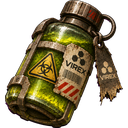
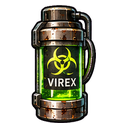
Fotos nuevas de todos los objetos y menús del juego con el arte nuevo: mochila con casilleros dibujados, tienda, pausa, carga, CAÍSTE y libretas de Pablo y Sofía con retrato del MVP
Claude-Session: https://claude.ai/code/session_01VGCmBo3CsU2Xq1dNwQVK9W

diff --git a/www/cenizas.js b/www/cenizas.js
@@ -368,6 +368,8 @@
   Object.entries(EPIC).forEach(([k, o]) => { ITEMS[k] = Object.assign({ t: (o.eq === 'arma' ? 'Arma' : o.eq === 'ropa' ? 'Ropa' : o.eq === 'acc' ? 'Accesorio' : o.eq === 'pies' ? 'Pies' : 'Cabeza') + ' · ÉPICO · MVP', r: 'e', epic: 1 }, o); ICO(k, k); });
   Object.assign(WEAP, { palo_destino: { n: 'PALO DEL DESTINO', dmg: 5, range: 150, cd: .45, kb: 40, mul: 1.6 }, daga_demonio: { n: 'DAGA', dmg: 4, range: 105, cd: .22, kb: 14, mul: 1.6 },
     baston_oscuro: { n: 'BASTÓN OSCURO', dmg: 5, range: 145, cd: .55, kb: 170, mul: 1.6 }, baston_resina: { n: 'BASTÓN DE RESINA', dmg: 6, range: 140, cd: .5, kb: 50, mul: 1.7 }, espada_lamentos: { n: 'LAMENTOS', dmg: 7, range: 140, cd: .3, kb: 30, mul: 1.9 } });
+  /* fotos propias para los que antes compartían o no tenían */
+  ['brz_ork', 'brz_reb', 'b_contencion', 'b_resonancia', 'brz_jefe', 'campera', 'chaleco_t', 'armadura', 'botiquin', 'venda_q', 'kit', 'canister', 'baston', 'pista_ork', 'pista_reb', 'pista', 'fragmento', 'trampa', 'antiveneno', 'linterna', 'receptor', 'pilas'].forEach(k => ICO(k, k));
   const WEAPON_KEYS = ['palo'].concat(Object.keys(WEAP).filter(k => k !== 'palo' && ITEMS[k]));
   /* suma de bonos de todo lo equipado */
   function gearSum(st) { if (!INV || !INV.eq) return 0; let s = 0; Object.values(INV.eq).forEach(k => { const it = k && ITEMS[k]; if (it && it[st]) s += it[st]; }); return s; }
@@ -777,7 +779,7 @@
     const eqName = k => k ? (k === 'palo' ? 'Palo' : ITEMS[k].n) : '—';
     $('#inv-eq').onclick = e => { const sp = e.target.closest('[data-s]'); if (!sp) return; const sl = sp.dataset.s; if (sl === 'arma') setWeapon('palo'); else INV.eq[sl] = null; hud(); renderInv(); };
     const col = k => k && ITEMS[k] && ITEMS[k].r ? ' style="color:' + RAR[ITEMS[k].r][1] + '"' : '';
-    $('#inv-eq').innerHTML = [['arma', 'ARMA'], ['cabeza', 'CABEZA'], ['ropa', 'ROPA'], ['brazo', 'BRAZO'], ['pies', 'PIES'], ['acc1', 'ACC 1'], ['acc2', 'ACC 2'], ['luz', 'LUZ']].map(([s_, l_]) => '<span data-s="' + s_ + '">' + l_ + ' <b' + col(INV.eq[s_]) + '>' + (s_ === 'luz' ? (INV.eq.luz ? 'Linterna ' + Math.ceil(INV.bat) + '%' : '—') : eqName(INV.eq[s_])) + (s_ === 'ropa' && INV.eq.ropa && ITEMS[INV.eq.ropa] ? ' ' + Math.ceil(INV.dur[INV.eq.ropa] != null ? INV.dur[INV.eq.ropa] : ITEMS[INV.eq.ropa].shield) : '') + '</b></span>').join('');
+    $('#inv-eq').innerHTML = [['arma', 'ARMA'], ['cabeza', 'CABEZA'], ['ropa', 'ROPA'], ['brazo', 'BRAZO'], ['pies', 'PIES'], ['acc1', 'ACC 1'], ['acc2', 'ACC 2'], ['luz', 'LUZ']].map(([s_, l_]) => { const ek = s_ === 'luz' ? (INV.eq.luz ? 'linterna' : null) : INV.eq[s_], src_ = ek && ICONS[ek] && ICONS[ek].src ? ICONS[ek].src : ''; return '<span data-s="' + s_ + '" class="' + (ek ? 'full' : '') + '"' + (ek && ITEMS[ek] && ITEMS[ek].r ? ' style="--rc:' + RAR[ITEMS[ek].r][1] + '"' : '') + '>' + (src_ ? '<img src="' + src_ + '" alt="">' : '') + '<u>' + l_ + '</u> <b' + col(INV.eq[s_]) + '>' + (s_ === 'luz' ? (INV.eq.luz ? 'Linterna ' + Math.ceil(INV.bat) + '%' : '—') : eqName(INV.eq[s_])) + (s_ === 'ropa' && INV.eq.ropa && ITEMS[INV.eq.ropa] ? ' ' + Math.ceil(INV.dur[INV.eq.ropa] != null ? INV.dur[INV.eq.ropa] : ITEMS[INV.eq.ropa].shield) : '') + '</b></span>'; }).join('');
     const box = $('#inv-slots'); box.innerHTML = ''; const keys = Object.keys(ITEMS).filter(k => hasItem(k));
     if (!keys.length) box.innerHTML = '<div class="empty">La mochila está vacía. Buscá cosas brillando en el piso.</div>';
     keys.sort((a, b) => TORD[tierOf(b)] - TORD[tierOf(a)]); keys.forEach(k => { const b = document.createElement('button'); b.setAttribute('aria-pressed', invSel === k); if (Object.values(INV.eq).includes(k)) b.classList.add('on'); if (ITEMS[k].r && ITEMS[k].r !== 'g') { b.style.borderColor = RAR[ITEMS[k].r][1]; b.style.boxShadow = 'inset 0 0 10px ' + RAR[ITEMS[k].r][1] + '66'; }
@@ -912,12 +914,13 @@
   function banner(txt, sub, ms, col) { const b = $('#mvp-ban'); if (!b) return; b.innerHTML = '<b' + (col ? ' style="color:' + col + '"' : '') + '>' + txt + '</b>' + (sub ? '<small>' + sub + '</small>' : ''); b.hidden = false; b.classList.remove('pop'); void b.offsetWidth; b.classList.add('pop'); clearTimeout(banner.t); banner.t = setTimeout(() => b.hidden = true, ms || 2200); }
   function openLib(lk) { const L = LIBS[lk]; if (!storyFin()) return toast(L.nm + ': las páginas están pegadas con ceniza. Terminá la historia para poder abrirla.');
     if (lk === 'sofia' && !(INV.mvpPistas || []).length) return toast('LIBRETA DE SOFÍA: tiene un candado de sangre. Las pistas de la libreta de Pablo te dicen cómo abrirlo.');
-    paused = true; const ov = $('#ov-lib'); ov.hidden = false; ov.querySelector('.libimg').src = L.img; ov.querySelector('h2').textContent = L.nm;
-    const done = INV.mvpDay === dayN(); const box = ov.querySelector('.libl'); box.innerHTML = '';
-    L.list.forEach((mk, i) => { const M = MVPS[mk], b = document.createElement('button'); b.className = 'libo'; const won = (INV.mvpWon || {})[mk];
-      b.innerHTML = '<i>P' + (lk === 'pablo' ? i + 1 : i + 4) + '</i><b>' + M.n + '</b><small>' + M.txt + '</small>' + (won ? '<em>VENCIDO ×' + won + '</em>' : '');
-      b.disabled = done; b.onclick = () => { closeLib(); startMvp(mk); }; box.appendChild(b); });
-    ov.querySelector('.libn').textContent = done ? 'Ya venciste a un MVP hoy: la libreta se vuelve a abrir mañana. Si otro jugador la abre, podés ir con él.' : 'Elegí uno. Todos los que estén en este mapa vienen con vos. Podés intentarlo las veces que quieras hasta vencer a uno: después, hasta mañana.' + ((INV.mvpPistas || []).length ? ' · Pistas: ' + INV.mvpPistas.join(' · ') : ''); }
+    paused = true; const ov = $('#ov-lib'); ov.hidden = false; ov.dataset.lib = lk; const done = INV.mvpDay === dayN(); const box = ov.querySelector('.libl'); box.innerHTML = '';
+    const det = ov.querySelector('.libd'); const pick = mk => { const M = MVPS[mk], won = (INV.mvpWon || {})[mk]; box.querySelectorAll('button').forEach(b => b.classList.toggle('on', b.dataset.mk === mk));
+      det.innerHTML = '<img src="/a/ob/mvp_' + mk + '.webp" alt=""><b>' + M.n + '</b><small>' + M.txt + '</small>' + (won ? '<em>VENCIDO ×' + won + '</em>' : '') + (M.pista && won ? '<em>PISTA: "' + M.pista + '"</em>' : '');
+      const go = document.createElement('button'); go.className = 'libgo'; go.textContent = done ? 'HASTA MAÑANA' : 'ENFRENTAR'; go.disabled = done; go.onclick = () => { closeLib(); startMvp(mk); }; det.appendChild(go); };
+    L.list.forEach(mk => { const b = document.createElement('button'); b.dataset.mk = mk; b.setAttribute('aria-label', MVPS[mk].n); b.onclick = () => pick(mk); box.appendChild(b); });
+    pick(L.list[0]);
+    ov.querySelector('.libn').textContent = done ? 'Ya venciste a un MVP hoy. Si otro jugador abre la libreta, podés ir con él.' : 'Todos los que estén en este mapa vienen con vos.' + ((INV.mvpPistas || []).length ? ' Pistas: ' + INV.mvpPistas.join(' · ') : ''); }
   function closeLib() { $('#ov-lib').hidden = true; paused = false; }
   function startMvp(mk) { if (INV.mvpDay === dayN()) return; net('mvpgo', { mk, from: mapKey, by: me.nick }); goMvp(mk, me.nick); }
   function goMvp(mk, by) { const M = MVPS[mk]; if (!M || !MAPS[M.map]) return; INV.mvpBack = { map: mapKey, x: Math.round(P.x / WS), y: Math.round(P.y / WS) }; persist(); banner(M.n, by === me.nick ? 'Abriste la libreta…' : by + ' abrió la libreta…', 2400, '#ff5a6a'); SND.mob('roar', .4); setTimeout(() => warpTo(M.map), 900); }
@@ -1031,7 +1034,7 @@
     others.forEach(o => { g.fillStyle = o.fac === me.faction ? '#6ab0ff' : '#ff6a5c'; g.beginPath(); g.arc(o.x / WS * k, o.y / WS * k, 4, 0, 7); g.fill(); });
     const px = P.x / WS * k, py = P.y / WS * k; g.strokeStyle = '#fff'; g.lineWidth = 2; g.fillStyle = '#ffd860'; g.beginPath(); g.arc(px, py, 7, 0, 7); g.fill(); g.stroke(); g.font = 'bold 12px TechMono, monospace'; g.textAlign = 'center'; g.fillStyle = '#fff'; g.fillText('VOS', px, py - 12); }
   function slot_is_weapon(k) { return !!WEAP[k]; }
-  $('#inv-b').onclick = openInv; $('#inv-close').onclick = closeInv; $('#lib-close').onclick = closeLib; $('#map-b').onclick = openMapa; $('#map-close').onclick = () => { $('#ov-map').hidden = true; paused = false; };
+  $('#inv-b').onclick = openInv; $('#inv-close').onclick = closeInv; $('#lib-close').onclick = closeLib; $('#inv-x').onclick = closeInv; $('#map-b').onclick = openMapa; $('#map-close').onclick = () => { $('#ov-map').hidden = true; paused = false; };
 
   /* ---------- Oscuros compartidos: el anfitrión de la sala los mueve, todos ven los mismos ---------- */
   let isHost = true, hostId = null, roomReady = false, mobSeq = 0, snapT = 0, maintT = 0, unlocks = {}; const lastDeath = {};
@@ -1764,6 +1767,6 @@
     const lv = lvlOf(P.xp); if (!P.dead && P.hp < maxHp(lv) * .25) { c.fillStyle = 'rgba(120,10,5,' + (.12 + Math.sin(t * 5) * .08) + ')'; c.fillRect(0, 0, VW, VH); }
   }
 
-    window.__cz = { EXP, npcs: () => npcsHere(), talk: () => { const n = nearNpc(); if (n) talkNpc(n); return n && n.k; }, get skins() { return mySkins; }, get look() { return look; }, get net() { return { mode: netMode, peers, sent: NETC.sent, recv: NETC.recv, gotFull }; }, get host() { return isHost; }, get hostId() { return hostId; }, set unlocks(v) { unlocks = v; }, get unlocks() { return unlocks; }, mshots, clouds, killMob, get suero() { return suero; }, get P() { return P; }, get INV() { return INV; }, pickups, mobs, walkable: (x, y) => walkable(x, y), othersMap: others, spawnMob, spawnPickup, useItem, useHab, attack, takeItem, get map() { return mapKey; }, warp: k => enterMap(k, 0, 0) };
+    window.__cz = { EXP, npcs: () => npcsHere(), talk: () => { const n = nearNpc(); if (n) talkNpc(n); return n && n.k; }, get skins() { return mySkins; }, get look() { return look; }, get net() { return { mode: netMode, peers, sent: NETC.sent, recv: NETC.recv, gotFull }; }, get host() { return isHost; }, get hostId() { return hostId; }, set unlocks(v) { unlocks = v; }, get unlocks() { return unlocks; }, mshots, clouds, killMob, get suero() { return suero; }, get P() { return P; }, get INV() { return INV; }, pickups, mobs, ITEMS, ICONS, walkable: (x, y) => walkable(x, y), othersMap: others, spawnMob, spawnPickup, useItem, useHab, attack, takeItem, get map() { return mapKey; }, warp: k => enterMap(k, 0, 0) };
   boot().catch(e => { $('#load-t').textContent = 'Error al cargar: ' + (e.message || e); });
 })();

diff --git a/www/cenizas-ui3.css b/www/cenizas-ui3.css
@@ -1,0 +1,67 @@
+/* ===== menús del juego: metal oxidado (tienda, pausa, mochila, mapa, carga, caíste, libretas) ===== */
+.ov{background:rgba(0,0,0,.78)}
+.gbox{position:relative;border:0!important;background:none!important;border-style:solid!important;border-width:34px 34px 30px!important;border-image:url(/a/ui/g_marco.webp) 70 70 64 fill / 34px 34px 30px stretch!important;padding:12px 16px 10px!important}
+.gbox>h2{display:block;width:min(260px,70%);margin:-40px auto 6px!important;padding:13px 0 9px;background:url(/a/ui/g_titulo.webp) center/100% 100% no-repeat;font-size:24px!important;color:#f3ead8!important;text-shadow:0 2px 0 #000;letter-spacing:.14em}
+.gbox::before,.gbox::after{content:"";position:absolute;top:-30px;width:74px;height:66px;background:center/contain no-repeat;pointer-events:none;z-index:2}
+.gbox::before{left:-26px;background-image:url(/a/ui/g_band_reb.webp)}.gbox::after{right:-26px;background-image:url(/a/ui/g_band_ork.webp)}
+.gbox .btn{border:0!important;border-radius:0;background:url(/a/ui/g_btn_osc.webp) center/100% 100% no-repeat!important;color:#f3ead8!important;font-family:"Bebas",sans-serif;font-size:18px;letter-spacing:.12em;padding:9px 22px 7px;min-width:130px;text-shadow:0 1px 0 #000}
+.gbox .btn.solid{background-image:url(/a/ui/g_btn_papel.webp)!important;color:#1a140c!important;text-shadow:none}
+.gbox .btn:disabled{filter:grayscale(.8) brightness(.6)}
+#shop-close,#inv-close,#map-close{background-image:url(/a/ui/g_btn_naranja.webp)!important;min-width:170px;padding:12px 26px 10px;font-size:20px}
+.xbtn{position:absolute;top:-14px;right:-6px;width:40px;height:40px;border:0;background:url(/a/ui/m_x.webp) center/contain no-repeat;z-index:3}
+/* tienda */
+.shopsub{margin:0 auto 4px!important;padding:8px 16px 6px;width:min(100%,420px);background:url(/a/ui/g_papel.webp) center/100% 100% no-repeat;color:#2a1d10!important;font-family:"Elite",monospace;font-size:13px;text-align:center}
+.shopsub b{color:#2a1d10}
+.shop .shopr{border:1px solid #6a4a2a!important;border-radius:4px;background:linear-gradient(180deg,rgba(30,24,18,.92),rgba(14,11,8,.92))!important;box-shadow:inset 0 0 0 1px rgba(255,150,60,.15),0 2px 6px rgba(0,0,0,.6);padding:8px 10px;margin-bottom:6px;gap:12px;min-height:62px}
+.shop .shopr canvas{width:46px;height:46px;padding:6px;background:url(/a/ui/g_casilla.webp) center/100% 100% no-repeat;box-sizing:content-box;image-rendering:auto}
+.shop .shopr b{font-family:"Bebas",sans-serif;font-weight:400;font-size:17px;letter-spacing:.08em;color:#f3ead8}
+.shop .shopr small{color:#cdbfa6}
+.shop .shopr .btn{min-width:84px;padding:10px 12px 8px;background-image:url(/a/ui/g_btn_papel.webp)!important;color:#1a140c!important;font-size:19px}
+.shop .kitr small{color:#e8a050;letter-spacing:.2em}
+/* mochila */
+.mochi .eq{display:grid!important;grid-template-columns:repeat(8,minmax(0,1fr))!important;gap:4px!important}
+.mochi .eq span{position:relative;aspect-ratio:1;border:0!important;padding:0!important;background:url(/a/ui/m_s_arma.webp) center/100% 100% no-repeat;display:block;overflow:hidden}
+.mochi .eq span[data-s="cabeza"]{background-image:url(/a/ui/m_s_cabeza.webp)}.mochi .eq span[data-s="ropa"]{background-image:url(/a/ui/m_s_ropa.webp)}.mochi .eq span[data-s="brazo"]{background-image:url(/a/ui/m_s_brazo.webp)}
+.mochi .eq span[data-s="pies"]{background-image:url(/a/ui/m_s_pies.webp)}.mochi .eq span[data-s="acc1"]{background-image:url(/a/ui/m_s_acc1.webp)}.mochi .eq span[data-s="acc2"]{background-image:url(/a/ui/m_s_acc2.webp)}.mochi .eq span[data-s="luz"]{background-image:url(/a/ui/m_s_luz.webp)}
+.mochi .eq span.full{background-image:url(/a/ui/m_celda.webp)!important;box-shadow:inset 0 0 0 2px var(--rc,transparent)}
+.mochi .eq span img{position:absolute;inset:14%;width:72%;height:72%;object-fit:contain}
+.mochi .eq span u,.mochi .eq span b{position:absolute;left:0;right:0;text-align:center;text-decoration:none;font-size:7.5px;letter-spacing:.04em;white-space:nowrap;overflow:hidden;text-overflow:ellipsis;text-shadow:0 1px 2px #000}
+.mochi .eq span u{top:3px;color:#c9b998}.mochi .eq span b{bottom:3px;color:#f3ead8;font-size:7px}
+.mochi .eq span:not(.full) b{display:none}
+.mochi .slots{grid-template-columns:repeat(auto-fill,minmax(50px,1fr))!important;gap:3px!important;padding:2px}
+.mochi .slots button{border:0!important;background:url(/a/ui/m_celda.webp) center/100% 100% no-repeat!important}
+.mochi .slots button[aria-pressed="true"]{background-image:url(/a/ui/m_celda_on.webp)!important}
+.mochi .slots canvas{width:34px;height:34px;image-rendering:auto}
+.mochi .det{color:#e6dccb}
+/* carga */
+.loadbox{width:min(92vw,640px)!important;aspect-ratio:800/160;border:0!important;background:url(/a/ui/p_carga.webp) center/100% 100% no-repeat!important;padding:0!important;position:relative}
+.loadbox h2{visibility:hidden;margin:0!important}
+.loadbox #load-t{position:absolute;left:0;right:0;top:72%;font-size:12px;color:#d6c8ad;margin:0}
+/* caíste */
+.deadbox{width:min(92vw,620px)!important;aspect-ratio:820/457;border:0!important;background:url(/a/ui/d_caiste.webp) center/100% 100% no-repeat!important;padding:0!important;position:relative}
+.deadbox h2,.deadbox>p:not(#d-lv){visibility:hidden;height:0;margin:0!important}
+.deadbox #d-lv{position:absolute;left:0;right:0;top:56%;font-size:12px;margin:0}
+.deadbox .row{position:static}
+.deadbox #d-ok{position:absolute;left:22%;right:22%;top:65%;height:17%;border:0;background:none;font-size:0;color:transparent}
+.deadbox #d-fac{position:absolute;left:50%;transform:translateX(-50%);bottom:-44px;border:0;background:url(/a/ui/g_btn_osc.webp) center/100% 100% no-repeat;color:#f3ead8;font-size:12px;padding:8px 16px}
+/* libretas */
+.libbook{position:relative;width:min(96vw,calc(88vh * 1.789),880px);aspect-ratio:880/492;background:url(/a/ui/l_pablo.webp) center/100% 100% no-repeat}
+#ov-lib[data-lib="sofia"] .libbook{background-image:url(/a/ui/l_sofia.webp)}
+.libl{position:absolute;left:12.5%;width:29.5%;top:36%;display:flex;flex-direction:column;gap:2.6%;height:40%}
+#ov-lib[data-lib="sofia"] .libl{top:42%;gap:4%}
+.libl button{height:30%;border:0;background:none;border-radius:6px}
+#ov-lib[data-lib="sofia"] .libl button{height:34%}
+.libl button.on{box-shadow:0 0 0 2px #ff9a4a,0 0 14px rgba(255,140,60,.7)}
+.libd{position:absolute;left:54.5%;right:10.5%;top:12%;bottom:15%;display:flex;flex-direction:column;align-items:center;gap:4px;padding:6px 8px;overflow:hidden;text-align:center}
+.libd img{width:auto;height:46%;object-fit:contain;filter:sepia(.25) contrast(1.05)}
+.libd b{font-family:"Bebas",sans-serif;font-weight:400;font-size:clamp(14px,2.3vw,20px);letter-spacing:.1em;color:#ff7a6a}
+.libd small{font-size:clamp(9px,1.25vw,11.5px);color:#dccfb8;line-height:1.3}
+.libd em{font-style:normal;font-size:10px;color:#ffd860}
+.libgo{margin-top:auto;border:0;background:url(/a/ui/g_btn_papel.webp) center/100% 100% no-repeat;color:#1a140c;font-family:"Bebas",sans-serif;font-size:16px;letter-spacing:.12em;padding:7px 22px 5px}
+.libgo:disabled{filter:grayscale(1) brightness(.7)}
+.libn{position:absolute;left:12%;width:32%;bottom:9%;margin:0;font-size:clamp(8px,1.1vw,10.5px);color:#3a2a18;line-height:1.3}
+.libbook .xbtn{top:-6px;right:4%}
+.gbox.inv{overflow:visible!important}
+.gbox.inv>h2{margin-top:-42px!important}
+.loadbox #load-t{top:86%;font-size:10px;color:#9a8c74}
+.libn{bottom:6%}

diff --git a/www/cenizas.html b/www/cenizas.html
@@ -143,6 +143,7 @@ body{position:fixed;inset:0}
 #mvp-ban.pop b{animation:mvpop .5s cubic-bezier(.2,1.6,.4,1)}@keyframes mvpop{from{transform:scale(2.4);opacity:0}to{transform:scale(1);opacity:1}}
 </style>
 <link rel="stylesheet" href="/cenizas-hud.css">
+<link rel="stylesheet" href="/cenizas-ui3.css">
 </head>
 <body>
 <canvas id="cv"></canvas>
@@ -171,27 +172,27 @@ body{position:fixed;inset:0}
 
 <div class="say" id="say" hidden><input id="say-in" maxlength="80" placeholder="Decí algo…" autocomplete="off"><button class="btn solid" id="say-go">DECIR</button></div>
 
-<div class="ov" id="ov-load"><div class="box"><h2>THE O|F</h2><p id="load-t">cargando…</p></div></div>
+<div class="ov" id="ov-load"><div class="box loadbox"><h2>THE O|F</h2><p id="load-t">cargando…</p></div></div>
 
-<div class="ov" id="ov-menu" hidden><div class="box"><h2>PAUSA</h2><p>Tu personaje queda donde está. La próxima vez arrancás acá mismo.</p>
+<div class="ov" id="ov-menu" hidden><div class="box gbox"><h2>PAUSA</h2><p>Tu personaje queda donde está. La próxima vez arrancás acá mismo.</p>
   <div class="row" style="margin-bottom:10px"><button class="btn" id="m-snd">SONIDO: SÍ</button></div>
   <div class="row"><button class="btn" id="m-back">SEGUIR</button><button class="btn solid" id="m-exit">GUARDAR Y VOLVER</button></div></div></div>
 
-<div class="ov" id="ov-lib" hidden><div class="box"><img class="libimg" alt=""><div><h2>LIBRETA</h2><div class="libl"></div><p class="libn"></p><button class="btn" id="lib-close">CERRAR</button></div></div></div>
+<div class="ov" id="ov-lib" hidden><div class="libbook"><div class="libl"></div><div class="libd"></div><p class="libn"></p><button class="xbtn" id="lib-close" aria-label="Cerrar"></button></div></div>
 <div id="mvp-ban" hidden></div>
-<div class="ov" id="ov-map" hidden><div class="box mapbox"><h2>MAPA</h2><canvas id="map-cv"></canvas><p class="mapley"><b style="color:#ffd860">●</b> vos · <b style="color:#6ab0ff">●</b> aliados · <b style="color:#ff6a5c">●</b> otro bando · <b style="color:#e8c070">●</b> personajes · <b style="color:#7ff6f2">●</b> salidas</p><button class="btn" id="map-close">CERRAR</button></div></div>
-<div class="ov" id="ov-inv" hidden><div class="box inv"><h2>MOCHILA</h2>
+<div class="ov" id="ov-map" hidden><div class="box mapbox gbox"><h2>MAPA</h2><canvas id="map-cv"></canvas><p class="mapley"><b style="color:#ffd860">●</b> vos · <b style="color:#6ab0ff">●</b> aliados · <b style="color:#ff6a5c">●</b> otro bando · <b style="color:#e8c070">●</b> personajes · <b style="color:#7ff6f2">●</b> salidas</p><button class="btn" id="map-close">CERRAR</button></div></div>
+<div class="ov" id="ov-inv" hidden><div class="box inv gbox mochi"><h2>MOCHILA</h2><button class="xbtn" id="inv-x" aria-label="Cerrar"></button>
   <div class="eq" id="inv-eq"></div>
   <div class="slots" id="inv-slots"></div>
   <div class="det" id="inv-det"><p>Tocá un objeto para ver qué hace.</p></div>
   <div class="row"><button class="btn" id="inv-close">CERRAR</button></div></div></div>
 
-<div class="ov" id="ov-shop" hidden><div class="box inv"><h2>ROSA</h2><p style="margin:0;text-align:center"><i>"Elegí bien, chico."</i> · <b id="shop-c">0 monedas</b></p>
+<div class="ov" id="ov-shop" hidden><div class="box inv gbox shop"><h2>ROSA</h2><p class="shopsub"><i>"Elegí bien, chico."</i> · <b id="shop-c">0 monedas</b></p>
   <div id="shop-l"></div><div class="row"><button class="btn" id="shop-close">CERRAR</button></div></div></div>
 
 <div class="boss" id="boss" hidden><b id="boss-n"></b><div class="bar"><i id="boss-hp"></i></div></div>
 
-<div class="ov" id="ov-dead" hidden><div class="box"><h2>CAÍSTE</h2><p>La ceniza te cubrió. Despertás en tu base.</p><p id="d-lv" style="color:#ff7a70"></p><div class="row"><button class="btn solid" id="d-ok">LEVANTARSE</button><button class="btn" id="d-fac">ELEGIR BANDO DE NUEVO</button></div></div></div>
+<div class="ov" id="ov-dead" hidden><div class="box deadbox"><h2>CAÍSTE</h2><p>La ceniza te cubrió. Despertás en tu base.</p><p id="d-lv" style="color:#ff7a70"></p><div class="row"><button class="btn solid" id="d-ok">LEVANTARSE</button><button class="btn" id="d-fac">ELEGIR BANDO DE NUEVO</button></div></div></div>
 
 <section class="cre" id="cre" hidden>
   <div class="pv"><h1>TU SOBREVIVIENTE</h1><canvas id="pv" width="48" height="64"></canvas><button class="btn" id="pv-rot" style="font-size:15px;padding:6px 12px 4px">GIRAR</button></div>
